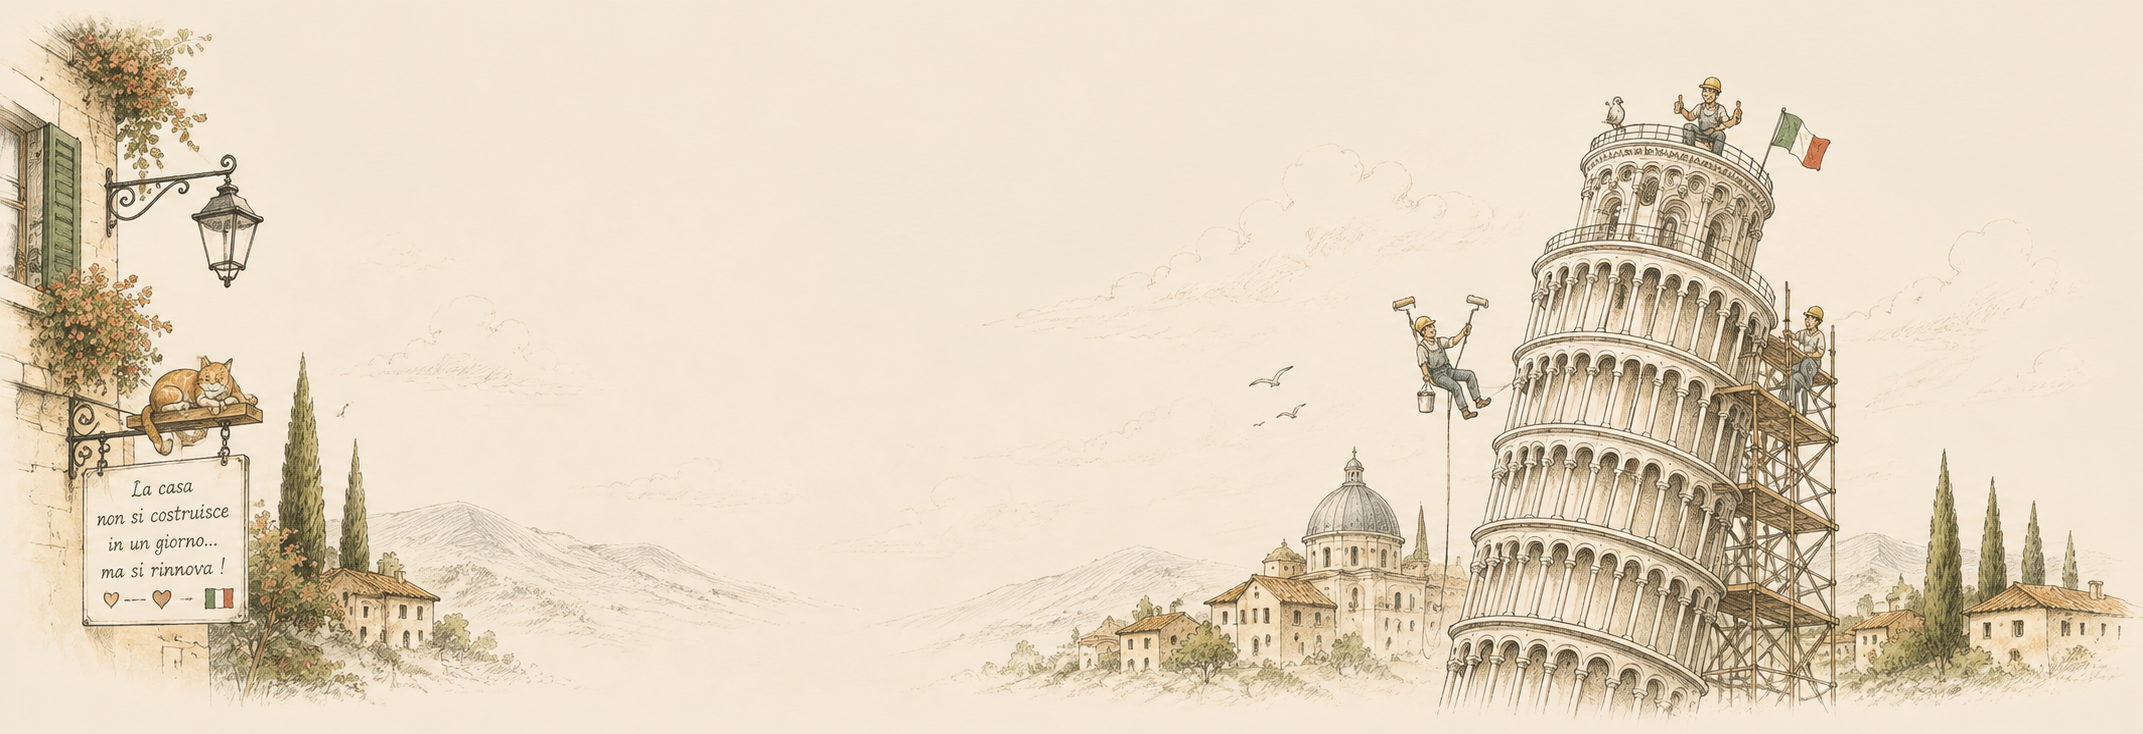
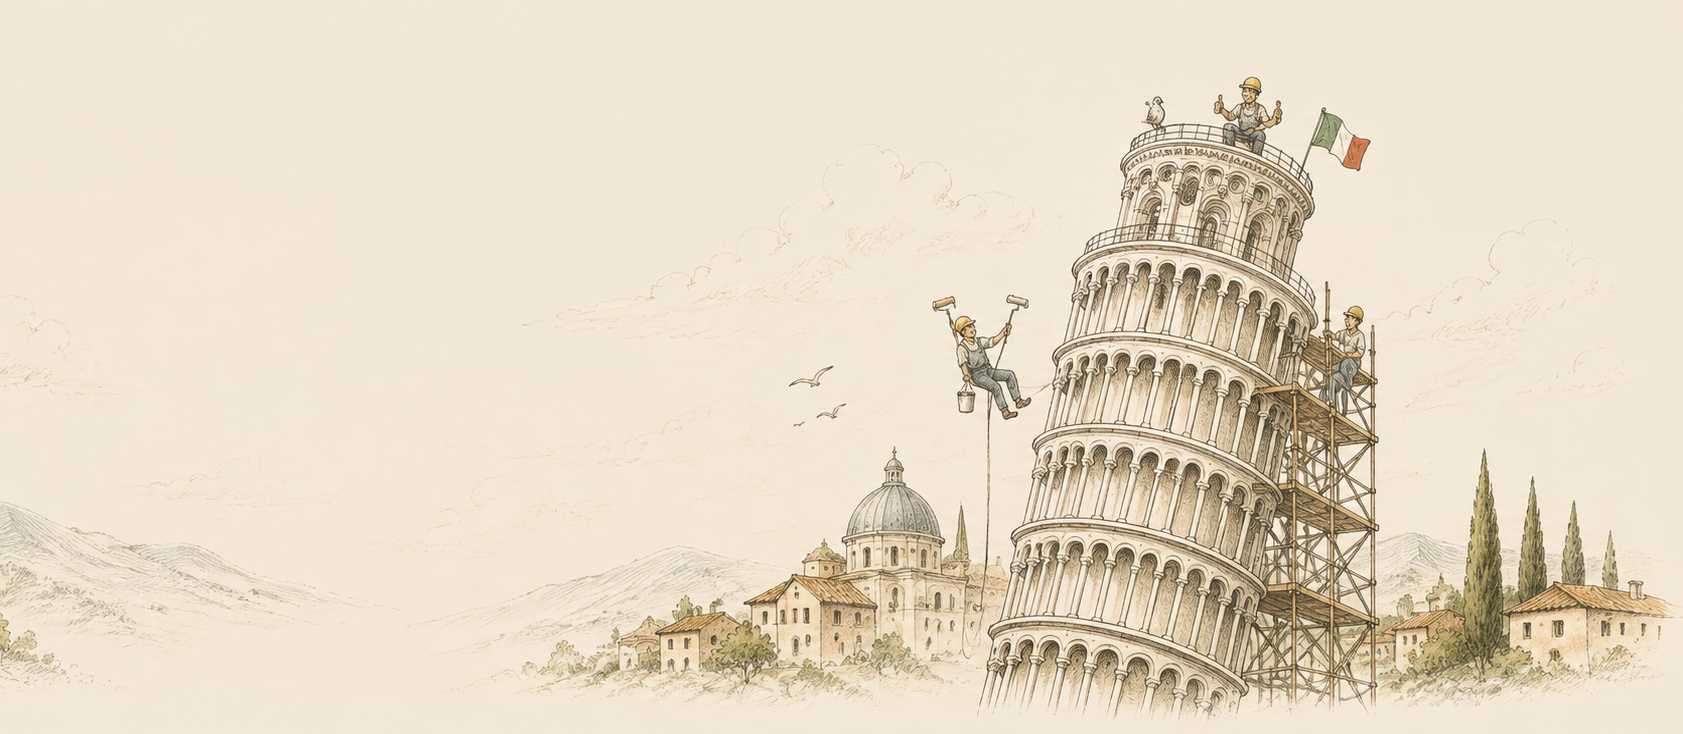
updated normal view index

Changed region(s): [[0.309, 0.0899, 1.0, 0.9891], [0.0, 0.03, 0.3708, 0.9591], [0.4635, 0.5095, 0.4944, 0.5395]]

diff --git a/renovaora.com/ui/html/pages/index.html b/renovaora.com/ui/html/pages/index.html
@@ -2,30 +2,30 @@
 {{define "main"}}
 <div class="relative w-full -mt-6 -mx-4 sm:mx-0">
 
-    <div class="relative w-full h-[280px] sm:h-[360px] md:h-[440px] lg:h-[520px] overflow-hidden">
+    <div class="relative w-full h-[180px] sm:h-[220px] md:h-[260px] lg:h-[300px] overflow-hidden">
         <img
             src="/static/images/hero-tower.png"
             alt="Renovaora — restoration craftsmen at the Leaning Tower of Pisa"
             class="absolute inset-0 w-full h-full object-cover object-top"
         >
         <div class="absolute inset-0"
-             style="background: linear-gradient(to bottom, transparent 45%, rgba(255,255,255,0.9) 80%, #ffffff 100%);">
+             style="background: linear-gradient(to bottom, transparent 40%, rgba(255,255,255,0.9) 80%, #ffffff 100%);">
         </div>
 
-        <div class="absolute inset-x-0 bottom-0 flex flex-col items-center pb-4 sm:pb-6 px-4">
-            <h1 class="text-3xl sm:text-4xl md:text-5xl font-extrabold tracking-tight mb-3 bg-gradient-to-r from-green-600 via-gray-800 to-red-600 bg-clip-text text-transparent">
+        <div class="absolute inset-x-0 bottom-0 flex flex-col items-center pb-2 sm:pb-3 px-4">
+            <h1 class="text-2xl sm:text-3xl md:text-4xl font-extrabold tracking-tight mb-2 bg-gradient-to-r from-green-600 via-gray-800 to-red-600 bg-clip-text text-transparent">
                 Renovaora
             </h1>
             <div class="flex justify-center gap-1">
-                <span class="w-8 sm:w-10 h-1.5 rounded-full bg-green-600"></span>
-                <span class="w-8 sm:w-10 h-1.5 rounded-full bg-gray-200"></span>
-                <span class="w-8 sm:w-10 h-1.5 rounded-full bg-red-600"></span>
+                <span class="w-6 sm:w-8 h-1 rounded-full bg-green-600"></span>
+                <span class="w-6 sm:w-8 h-1 rounded-full bg-gray-200"></span>
+                <span class="w-6 sm:w-8 h-1 rounded-full bg-red-600"></span>
             </div>
         </div>
     </div>
 
-    <div class="max-w-2xl text-center mx-auto px-4 pt-6 pb-4">
-        <p class="text-lg sm:text-xl text-gray-500 max-w-md mx-auto mb-8">
+    <div class="max-w-2xl text-center mx-auto px-4 pt-4 pb-4">
+        <p class="text-lg sm:text-xl text-gray-500 max-w-md mx-auto mb-6">
             A clean, white, and minimalist template with a perfectly centered navigation layout.
         </p>
         <a href="/about" class="inline-block bg-blue-600 text-white px-6 py-3 rounded-xl font-semibold shadow-md hover:bg-blue-700 transition">
